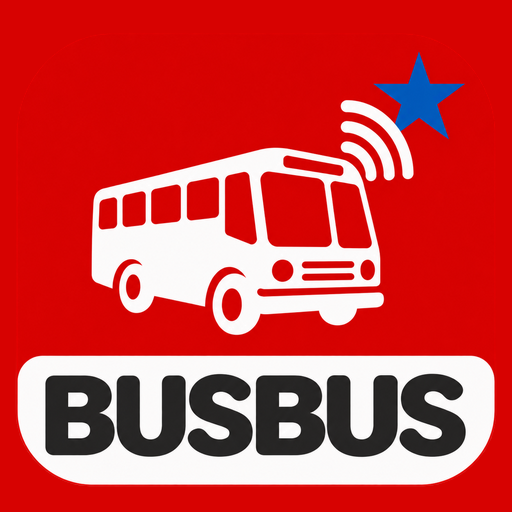
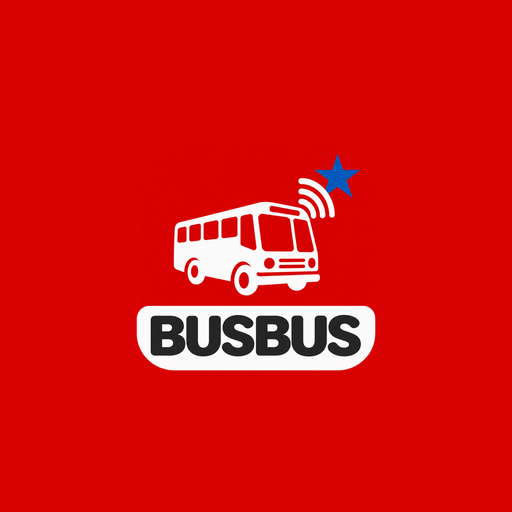
fix: botão voltar com painel aberto, scrollbar nativa e recorte do ícone (v1.3.4)
Correções a partir de teste real no aparelho da v1.3.3:

- Voltar com um painel pop-up aberto (Licenças, Ruas da linha, Verificar
  atualizações) navegava a tela de baixo em vez de fechar o painel —
  agora o back button nativo sempre fecha o painel primeiro.
- A barra de rolagem cinza nativa do WebView do Android continuava
  aparecendo mesmo com o CSS escondendo a dele própria (são duas camadas
  diferentes) — desligada na configuração nativa do WebView.
- Ícone cortado pela máscara adaptativa do Android: a arte ia de ponta a
  ponta sem margem, e qualquer formato de máscara (círculo, quadrado
  arredondado) cortava pedaços do ônibus/texto. Reduzido e centralizado
  dentro da zona segura (~58% do raio). Mesmo arquivo-fonte corrige
  também o ícone maskable da versão PWA.

Claude-Session: https://claude.ai/code/session_01YUJJxLxs73ubcmCRG58XRK

diff --git a/src/modules/native.js b/src/modules/native.js
@@ -21,6 +21,17 @@
 //    traduzimos isso pra decisão nativa: tem navegação pra desfazer?
 //    history.back(); senão, estamos na raiz mesmo, aí sim fecha o app.
 //
+// 1.1) Painéis pop-up (Licenças & Atribuições, Ruas da linha, Verificar
+//    atualizações — tudo que passa por openModal()/closeModal() em
+//    settings.js) não entram no histórico de navegação: são só um <div>
+//    sobreposto, sem pushState nenhum. Resultado: antes desta correção, o
+//    voltar nativo ignorava completamente que um painel estava aberto e ia
+//    direto pra lógica do item acima, navegando a aba de baixo enquanto o
+//    painel continuava visível por cima. Por isso aqui a gente SEMPRE
+//    confere primeiro se tem um painel aberto (#activeModal) — se tiver, o
+//    voltar só fecha ele, do mesmo jeito que tocar no X ou fora do painel
+//    já fazia.
+//
 // 2) Título colado na barra de notificação: a partir do Android 15 (API
 //    35), apps são renderizados edge-to-edge por padrão/obrigação — o
 //    conteúdo do WebView passa a ser desenhado POR BAIXO da status bar, a
@@ -39,6 +50,10 @@ if(!Capacitor.isNativePlatform()) return;
 try{
 const { App } = await import("@capacitor/app");
 App.addListener("backButton", () => {
+if(document.getElementById("activeModal")){
+import("./settings.js").then(({ closeModal }) => closeModal());
+return;
+}
 // Importa dinamicamente pra evitar um ciclo de import estático entre
 // native.js e nav.js (nav.js não precisa saber que native.js existe).
 import("./nav.js").then(({ navStack }) => {

diff --git a/android/app/src/main/java/com/busbus/app/MainActivity.java b/android/app/src/main/java/com/busbus/app/MainActivity.java
@@ -15,6 +15,14 @@ public class MainActivity extends BridgeActivity {
         // limite de rolagem — isso aqui desliga de vez, direto na origem.
         if (getBridge() != null && getBridge().getWebView() != null) {
             getBridge().getWebView().setOverScrollMode(View.OVER_SCROLL_NEVER);
+            // O CSS em styles.css já esconde a barra de rolagem "::-webkit-
+            // scrollbar" do conteúdo HTML, mas isso não tem efeito nenhum
+            // sobre a barra de rolagem NATIVA que o próprio Android WebView
+            // desenha por cima (a faixa cinza que aparece e some sozinha,
+            // mostrando em que ponto da página você está) — é uma camada
+            // completamente separada do CSS, só desliga por aqui mesmo.
+            getBridge().getWebView().setVerticalScrollBarEnabled(false);
+            getBridge().getWebView().setHorizontalScrollBarEnabled(false);
         }
     }
 }

diff --git a/CHANGELOG.md b/CHANGELOG.md
@@ -4,6 +4,15 @@ Todas as mudanças notáveis do BusBus (B.E.M.) ficam registradas aqui, por vers
 
 Formato livremente inspirado em [Keep a Changelog](https://keepachangelog.com/pt-BR/1.0.0/). Versionamento: [SemVer](https://semver.org/lang/pt-BR/) — `MAJOR.MINOR.PATCH`, onde incompatibilidades/mudanças grandes de comportamento sobem o `MAJOR`, funcionalidades novas sem quebrar nada sobem o `MINOR`, e correções sobem o `PATCH`.
 
+## [1.3.4] — 2026-10-15
+
+Segunda leva de correções do APK por Capacitor, a partir de testes reais no aparelho.
+
+### 🐛 Correções
+- **Voltar com um painel pop-up aberto** (Licenças & Atribuições, Ruas da linha, Verificar atualizações) **navegava a aba de baixo em vez de fechar o painel**: o botão voltar nativo agora sempre fecha o painel primeiro, se houver um aberto — só depois disso volta a mexer na navegação por trás dele.
+- **Barra de rolagem cinza nativa do Android ainda aparecia**: a v1.3.3 só tinha escondido a barra de rolagem do CSS (`::-webkit-scrollbar`), mas o WebView do Android desenha a dele própria por cima, numa camada separada que o CSS não alcança — desligada agora direto na configuração nativa do WebView.
+- **Ícone mal recortado**: o ícone novo da v1.3.3 usava a arte "de ponta a ponta" (sem margem), e a máscara adaptativa que o Android aplica em cima dos ícones (círculo, quadrado arredondado etc., dependendo do aparelho/launcher) cortava pedaços do ônibus e do texto "BUSBUS". Reduzido e centralizado dentro da "zona segura" (~58% do raio) que o Android garante não cortar, em todos os tamanhos — o mesmo arquivo-fonte também corrige o ícone "maskable" da versão web/PWA quando adicionada à tela inicial no Android.
+
 ## [1.3.3] — 2026-10-15
 
 Primeira leva de correções do APK gerado por Capacitor (v1.3.2) — o AppMint escondia tudo isso por trás do WebView-wrapper dele; agora que o projeto Android é de verdade, cada uma dessas integrações precisa ser ligada explicitamente, e na v1.3.2 nenhuma tinha sido ainda.
